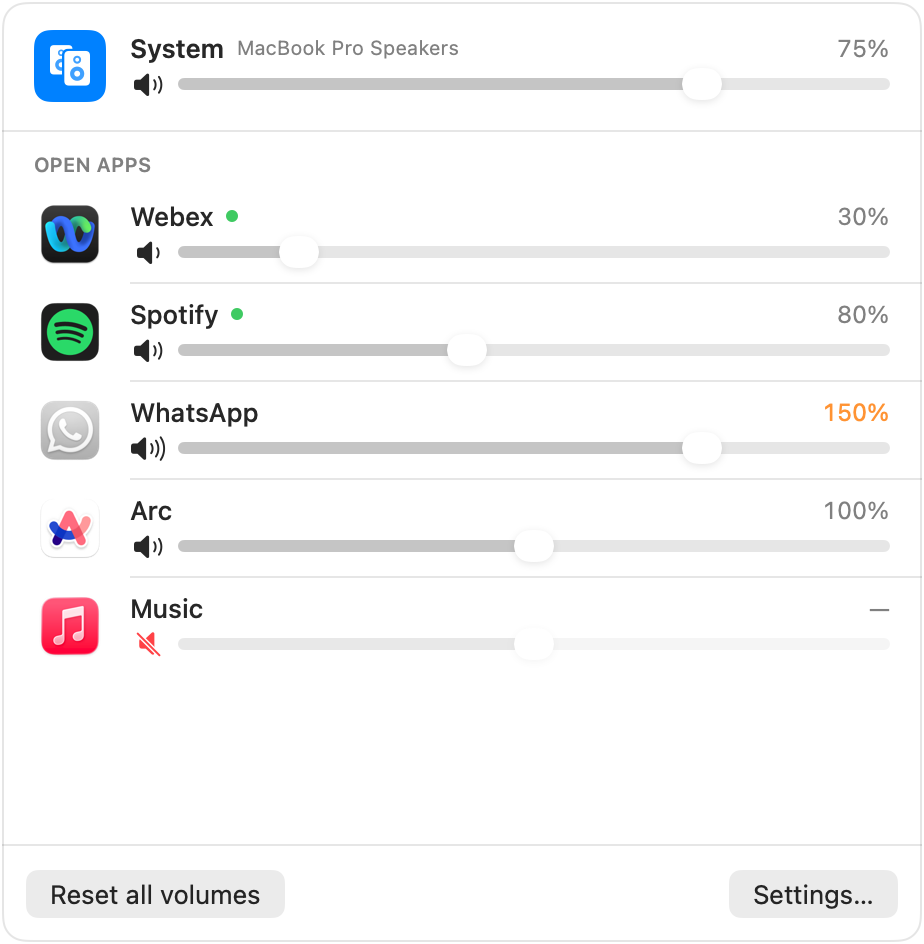
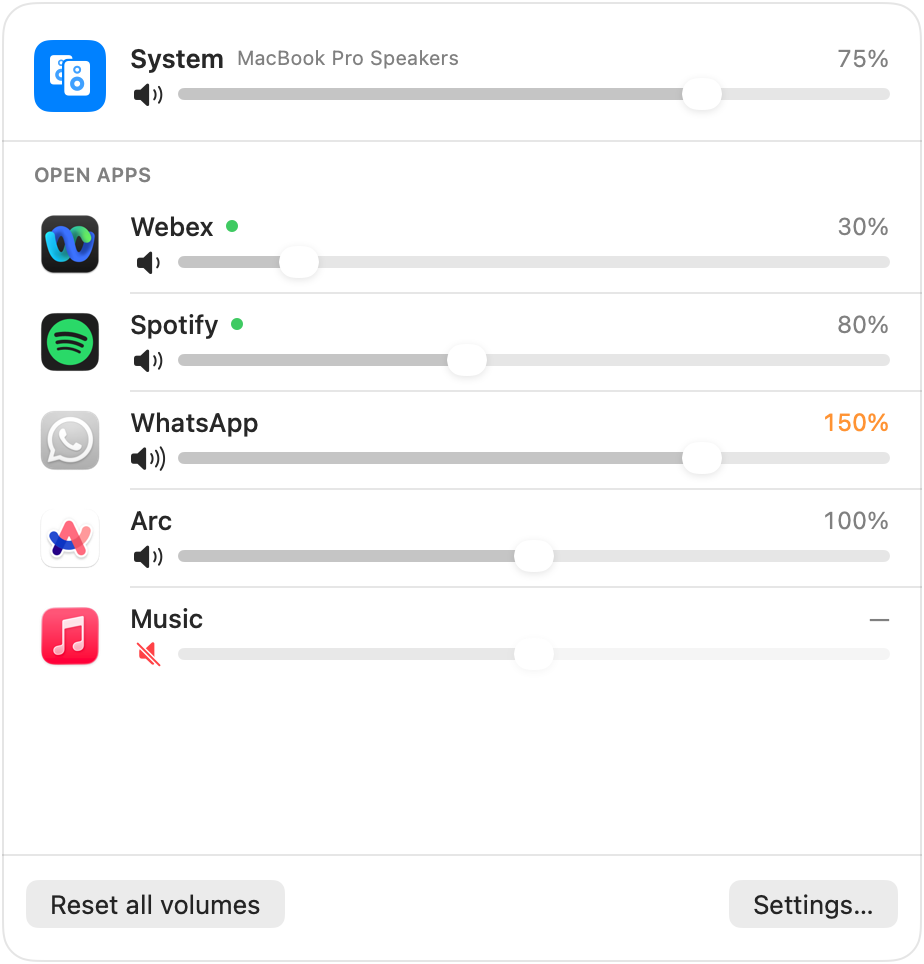
Make the menu bar panel a real system menu
The panel is now an NSMenu hosting the SwiftUI view instead of a
MenuBarExtra window, so it matches the system menus: rounded glass
look, the auto-hidden menu bar stays visible while it's open, and it
closes on outside click or Esc. UI refresh timers run in common mode
so the list keeps updating while the menu is open. Screenshots
regenerated.

diff --git a/Sources/PerAppVolume/StatusItemController.swift b/Sources/PerAppVolume/StatusItemController.swift
@@ -1,0 +1,80 @@
+import AppKit
+import Combine
+import SwiftUI
+
+/// The menu bar icon and its panel.
+///
+/// The panel is a real system menu (`NSMenu`) whose only item hosts the SwiftUI content. Being a
+/// menu, macOS draws it exactly like Bluetooth or Wi-Fi: rounded corners and glass material, the
+/// menu bar stays visible while it's open (even with "automatically hide the menu bar"), and it
+/// closes with a click outside, Esc or another click on the icon.
+@MainActor
+final class StatusItemController: NSObject, NSMenuDelegate {
+    static let shared = StatusItemController()
+
+    private var statusItem: NSStatusItem?
+    private let menu = NSMenu()
+    private var hostingView: NSHostingView<AnyView>?
+    private var cancellables: Set<AnyCancellable> = []
+    private(set) var isMenuOpen = false
+
+    func install() {
+        guard statusItem == nil else { return }
+
+        let item = NSStatusBar.system.statusItem(withLength: NSStatusItem.variableLength)
+        if let button = item.button {
+            let image = NSImage(systemSymbolName: "slider.vertical.3", accessibilityDescription: "PerAppVolume")
+            image?.isTemplate = true
+            button.image = image
+        }
+
+        let content = MenuContentView()
+            .environmentObject(MixerModel.shared)
+            .environmentObject(SystemVolume.shared)
+            .environmentObject(Localizer.shared)
+        let hosting = NSHostingView(rootView: AnyView(content))
+        hostingView = hosting
+
+        let contentItem = NSMenuItem()
+        contentItem.view = hosting
+        menu.addItem(contentItem)
+        menu.delegate = self
+        item.menu = menu
+        statusItem = item
+
+        resize()
+        // Keep the menu the right height when apps appear/disappear or the language changes.
+        MixerModel.shared.$apps.map { _ in () }
+            .merge(with: Localizer.shared.$choice.map { _ in () })
+            .receive(on: RunLoop.main)
+            .sink { [weak self] in self?.resize() }
+            .store(in: &cancellables)
+    }
+
+    /// Closes the menu, then runs `action` (used to open the mixer or settings windows).
+    func closeMenu(then action: @escaping @MainActor () -> Void) {
+        menu.cancelTracking()
+        DispatchQueue.main.async { action() }
+    }
+
+    private func resize() {
+        guard let hostingView else { return }
+        hostingView.layoutSubtreeIfNeeded()
+        let size = hostingView.fittingSize
+        if hostingView.frame.size != size {
+            hostingView.setFrameSize(size)
+        }
+    }
+
+    // MARK: NSMenuDelegate
+
+    func menuWillOpen(_ menu: NSMenu) {
+        isMenuOpen = true
+        MixerModel.shared.refresh()
+        resize()
+    }
+
+    func menuDidClose(_ menu: NSMenu) {
+        isMenuOpen = false
+    }
+}

diff --git a/Sources/PerAppVolume/PerAppVolumeApp.swift b/Sources/PerAppVolume/PerAppVolumeApp.swift
@@ -3,20 +3,11 @@ import SwiftUI
 
 struct PerAppVolumeApp: App {
     @NSApplicationDelegateAdaptor(AppDelegate.self) private var delegate
-    @StateObject private var model = MixerModel.shared
-    @StateObject private var l10n = Localizer.shared
-    @StateObject private var system = SystemVolume.shared
 
     var body: some Scene {
-        MenuBarExtra {
-            MenuContentView()
-                .environmentObject(model)
-                .environmentObject(system)
-                .environmentObject(l10n)
-        } label: {
-            Image(systemName: "slider.vertical.3")
-        }
-        .menuBarExtraStyle(.window)
+        // The menu bar icon and its menu are created by StatusItemController (a real NSMenu,
+        // so it looks and behaves like the system menus). SwiftUI needs at least one scene.
+        Settings { EmptyView() }
     }
 }
 
@@ -24,6 +15,7 @@ final class AppDelegate: NSObject, NSApplicationDelegate {
     func applicationDidFinishLaunching(_ notification: Notification) {
         MixerModel.shared.start()
         SystemVolume.shared.start()
+        StatusItemController.shared.install()
         LaunchAtLogin.applyFirstRunDefault()
     }
 

diff --git a/Sources/PerAppVolume/ScreenshotGenerator.swift b/Sources/PerAppVolume/ScreenshotGenerator.swift
@@ -99,10 +99,13 @@ enum ScreenshotGenerator {
 
     /// Renders a view (with a rounded card background) through AppKit, so native controls are drawn.
     private static func snapshot<V: View>(_ view: V, dark: Bool, scale: CGFloat = 2) -> CGImage? {
+        // Rounded like the macOS 26 system menus and windows.
+        let radius: CGFloat = 16
         let content = view
+            .padding(.vertical, 5)   // NSMenu adds this inset around its content
             .background(Color(nsColor: .windowBackgroundColor))
-            .clipShape(RoundedRectangle(cornerRadius: 12, style: .continuous))
-            .overlay(RoundedRectangle(cornerRadius: 12, style: .continuous)
+            .clipShape(RoundedRectangle(cornerRadius: radius, style: .continuous))
+            .overlay(RoundedRectangle(cornerRadius: radius, style: .continuous)
                 .strokeBorder(Color.primary.opacity(0.12), lineWidth: 1))
             .padding(1)
             .environmentObject(MixerModel.shared)

diff --git a/Sources/PerAppVolume/Views/MenuContentView.swift b/Sources/PerAppVolume/Views/MenuContentView.swift
@@ -41,11 +41,16 @@ struct MenuContentView: View {
             Divider()
 
             HStack(spacing: 14) {
-                Button(l10n.t(.openWindow)) { WindowManager.shared.showMixer() }
-                Button(l10n.t(.settings)) { WindowManager.shared.showSettings() }
+                Button(l10n.t(.openWindow)) {
+                    StatusItemController.shared.closeMenu { WindowManager.shared.showMixer() }
+                }
+                Button(l10n.t(.settings)) {
+                    StatusItemController.shared.closeMenu { WindowManager.shared.showSettings() }
+                }
                 Spacer()
-                Button(l10n.t(.quit)) { NSApp.terminate(nil) }
-                    .keyboardShortcut("q")
+                Button(l10n.t(.quit)) {
+                    StatusItemController.shared.closeMenu { NSApp.terminate(nil) }
+                }
             }
             .buttonStyle(.borderless)
             .font(.callout)

diff --git a/Sources/PerAppVolume/MixerModel.swift b/Sources/PerAppVolume/MixerModel.swift
@@ -52,9 +52,13 @@ final class MixerModel: ObservableObject {
         CA.addSystemListener(kAudioHardwarePropertyDefaultOutputDevice) {
             Task { @MainActor in MixerModel.shared.outputDeviceChanged() }
         }
-        timer = Timer.scheduledTimer(withTimeInterval: 1, repeats: true) { _ in
+        // `.common` mode keeps the list (green dots, new apps) updating while the menu is open:
+        // menus run the main loop in event-tracking mode, where default-mode timers pause.
+        let timer = Timer(timeInterval: 1, repeats: true) { _ in
             Task { @MainActor in MixerModel.shared.refresh() }
         }
+        RunLoop.main.add(timer, forMode: .common)
+        self.timer = timer
         refresh()
     }
 

diff --git a/AGENTS.es.md b/AGENTS.es.md
@@ -72,7 +72,8 @@ scripts/make-icon.swift            dibuja el ícono de la app
 Sources/PerAppVolume/
   main.swift                       punto de entrada; maneja --list y --screenshots
   ScreenshotGenerator.swift        genera las capturas del README con datos de ejemplo
-  PerAppVolumeApp.swift            escena MenuBarExtra + AppDelegate
+  PerAppVolumeApp.swift            punto de entrada de la app + AppDelegate
+  StatusItemController.swift       ícono de la barra de menú; el panel es un NSMenu real con la vista SwiftUI
   MixerModel.swift                 lista de apps, volúmenes guardados, crea/elimina taps
   Audio/AppTap.swift               process tap + dispositivo agregado privado + ganancia en tiempo real
   Audio/AudioProcessScanner.swift  procesos de audio agrupados por el paquete .app más externo
@@ -88,6 +89,7 @@ Sources/PerAppVolume/
 
 - **Bilingüe:** todo texto visible va en `Localization.swift` con su versión en inglés y en español. Nunca escribas textos fijos en las vistas.
 - **Documentación sincronizada:** actualiza `README.md` (inglés, principal) y `README.es.md`, y también `AGENTS.md` y `AGENTS.es.md` cuando cambien las instrucciones.
+- **Panel del menú:** mantenlo como `NSMenu` (no una ventana `MenuBarExtra` ni un panel propio) para que conserve el aspecto del sistema, mantenga visible la barra de menú oculta automáticamente mientras está abierto y se cierre al hacer clic fuera. Los temporizadores que actualizan la interfaz deben correr en `RunLoop.Mode.common`, porque los menús procesan eventos en modo `.eventTracking`.
 - **Código en tiempo real:** `AppTap.render` corre en el hilo de audio. Ahí no se crean asignaciones de memoria, bloqueos, logs ni arreglos de Swift.
 - **Sin drivers ni sudo:** mantén el diseño sin drivers basado en `CATapDescription` con `muteBehavior = .mutedWhenTapped`.
 - **Versión:** sube `CFBundleShortVersionString` en `AppBundle/Info.plist`; los releases se crean al subir un tag `vX.Y.Z`.

diff --git a/AGENTS.md b/AGENTS.md
@@ -72,7 +72,8 @@ scripts/make-icon.swift            draws the app icon
 Sources/PerAppVolume/
   main.swift                       entry point; handles --list and --screenshots
   ScreenshotGenerator.swift        renders README screenshots with demo data
-  PerAppVolumeApp.swift            MenuBarExtra scene + AppDelegate
+  PerAppVolumeApp.swift            App entry + AppDelegate
+  StatusItemController.swift       menu bar icon; the panel is a real NSMenu hosting the SwiftUI view
   MixerModel.swift                 app list, saved volumes, creates/removes taps
   Audio/AppTap.swift               process tap + private aggregate device + real-time gain
   Audio/AudioProcessScanner.swift  audio processes grouped by outermost .app bundle
@@ -88,6 +89,7 @@ Sources/PerAppVolume/
 
 - **Bilingual:** every user-facing string goes in `Localization.swift` with English and Spanish text. Never hard-code UI text in views.
 - **Docs in sync:** update both `README.md` (English, primary) and `README.es.md`, and both `AGENTS.md` and `AGENTS.es.md` when instructions change.
+- **Menu panel:** keep it an `NSMenu` (not a `MenuBarExtra` window or custom panel) so it keeps the system look, keeps an auto-hidden menu bar visible while open, and closes on outside click. Timers that refresh the UI must run in `RunLoop.Mode.common`, because menus track events in `.eventTracking` mode.
 - **Real-time code:** `AppTap.render` runs on the audio thread. No allocations, locks, logging or Swift arrays created there.
 - **No drivers, no sudo:** keep the driver-free design based on `CATapDescription` with `muteBehavior = .mutedWhenTapped`.
 - **Version:** bump `CFBundleShortVersionString` in `AppBundle/Info.plist`; releases are created by pushing a tag `vX.Y.Z`.
